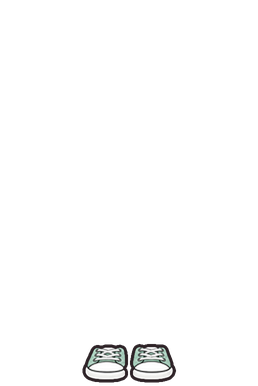
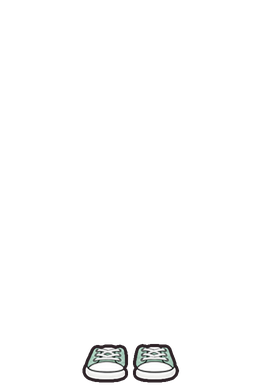
신발: 오른쪽 짝을 다리에 맞춰 바깥으로 3px
Claude-Session: https://claude.ai/code/session_015VxnKS3baGbwJXJNNp74ix

Changed region(s): [[0.4961, 0.8705, 0.7132, 0.9948]]

diff --git a/avatar.js b/avatar.js
@@ -40,7 +40,7 @@ const AV_ACC = []; // 장신구 칸 (아직 없음)
 const AV_TABS = [["eye", "눈"], ["mouth", "입"], ["cheek", "볼터치"], ["hair", "헤어"], ["top", "상의"], ["bottom", "하의"], ["full", "한벌"], ["shoes", "신발"], ["pet", "펫"]];
 const AV_FULL = new Set(["top-47", "top-48", "top-49", "top-50", "top-51", "top-52", "top-53", "top-54"]); // 위아래 한 벌 옷: 입으면 하의를 안 그림. 가게에서는 '한벌' 칸
 // 가게에서 뺀 옷: 몸에 꼭 맞지 않는 상의·하의 (이미 산 학생은 그대로 입고 있음. 번호는 그대로 둬야 산 기록이 안 꼬임)
-const AV_V = "?v=4"; // 그림을 고치면 숫자를 올림 (브라우저에 남은 옛 그림 대신 새로 받게)
+const AV_V = "?v=5"; // 그림을 고치면 숫자를 올림 (브라우저에 남은 옛 그림 대신 새로 받게)
 const AV_HIDE = new Set([...[6, 16, 17, 18, 19, 20, 21, 22, 23, 26, 39, 40, 41, 42, 43, 24, 25, 27, 28, 29, 30, 31, 32, 33, 34, 35, 36, 37, 38, 44, 45, 46].map(i => "top-" + i),
   ...[7, 13, 14, 15, 17, 19, 20, 21, 22, 23, 27, 29, 32, 33, 34, 35, 36, 37, 38, 39].map(i => "bottom-" + i)]); // 하의: 긴 바지·롱스커트(안 맞음)와 비슷한 것 중 덜 맞는 쪽
 const avInTab = (it, k) => !AV_HIDE.has(it.id) && (k === "acc" ? AV_ACC.includes(it.slot) : k === "full" ? AV_FULL.has(it.id) : k === "top" ? it.slot === "top" && !AV_FULL.has(it.id) : it.slot === k); // 가게 칸에 보일 물건

diff --git a/index.html b/index.html
@@ -1633,7 +1633,7 @@
     <button class="danger" onclick="resetEverything()">모든 데이터 초기화</button>
   </section>
 </div>
-<script src="avatar.js?v=4"></script><!-- 아바타를 고치면 avatar.js의 AV_V와 같이 숫자를 올림 -->
+<script src="avatar.js?v=5"></script><!-- 아바타를 고치면 avatar.js의 AV_V와 같이 숫자를 올림 -->
 <script>
 setTimeout(() => document.body.classList.add("ready"), 2000); // 혹시 아래에서 오류가 나도 2초 뒤엔 카드를 보여 줌
 // 다른 창(듀얼 모니터)으로 뗀 카드: { 카드: { w: 창, c: 카드, mark: 보드에 돌아올 자리, np: 글자 도구 창 } }

diff --git a/student.html b/student.html
@@ -159,7 +159,7 @@
     </div>
   </div>
 </div>
-<script src="avatar.js?v=4"></script><!-- 아바타를 고치면 avatar.js의 AV_V와 같이 숫자를 올림 -->
+<script src="avatar.js?v=5"></script><!-- 아바타를 고치면 avatar.js의 AV_V와 같이 숫자를 올림 -->
 <script type="module">
 // 서버: classes/{반 코드} = { unit, prices } · classes/{반 코드}/kids/{번호}-{비밀번호} = { n, pt, av, wear, own, buys, kidAt } (이름 없음)
 // 점수는 선생님 보드만 바꿈. 가게 물건은 입어 보기만 하다가 저장할 때 삼(buys에 남김). 선생님 보드가 받아서 점수를 뺌

diff --git a/av/shoegap.py b/av/shoegap.py
@@ -11,3 +11,5 @@ for k in range(1, 9):
     col, al = uniform(a, rgb, 2)
     m = al[..., None]; out[..., :3] = out[..., :3] * (1 - m) + col * m; out[..., 3] = np.maximum(out[..., 3], al * 255)
   Image.fromarray(out.round().clip(0, 255).astype(np.uint8)).resize((258, 386), Image.LANCZOS).save(f, optimize=True)
+# 2차(따로 한 번 돌림): 보는 쪽 오른쪽 짝이 다리보다 3px 안쪽이라 x>=129를 오른쪽으로 3px 옮김
+#   a = np.array(Image.open(f)); o = a.copy(); o[:, 129:] = 0; o[:, 132:] = a[:, 129:-3]
